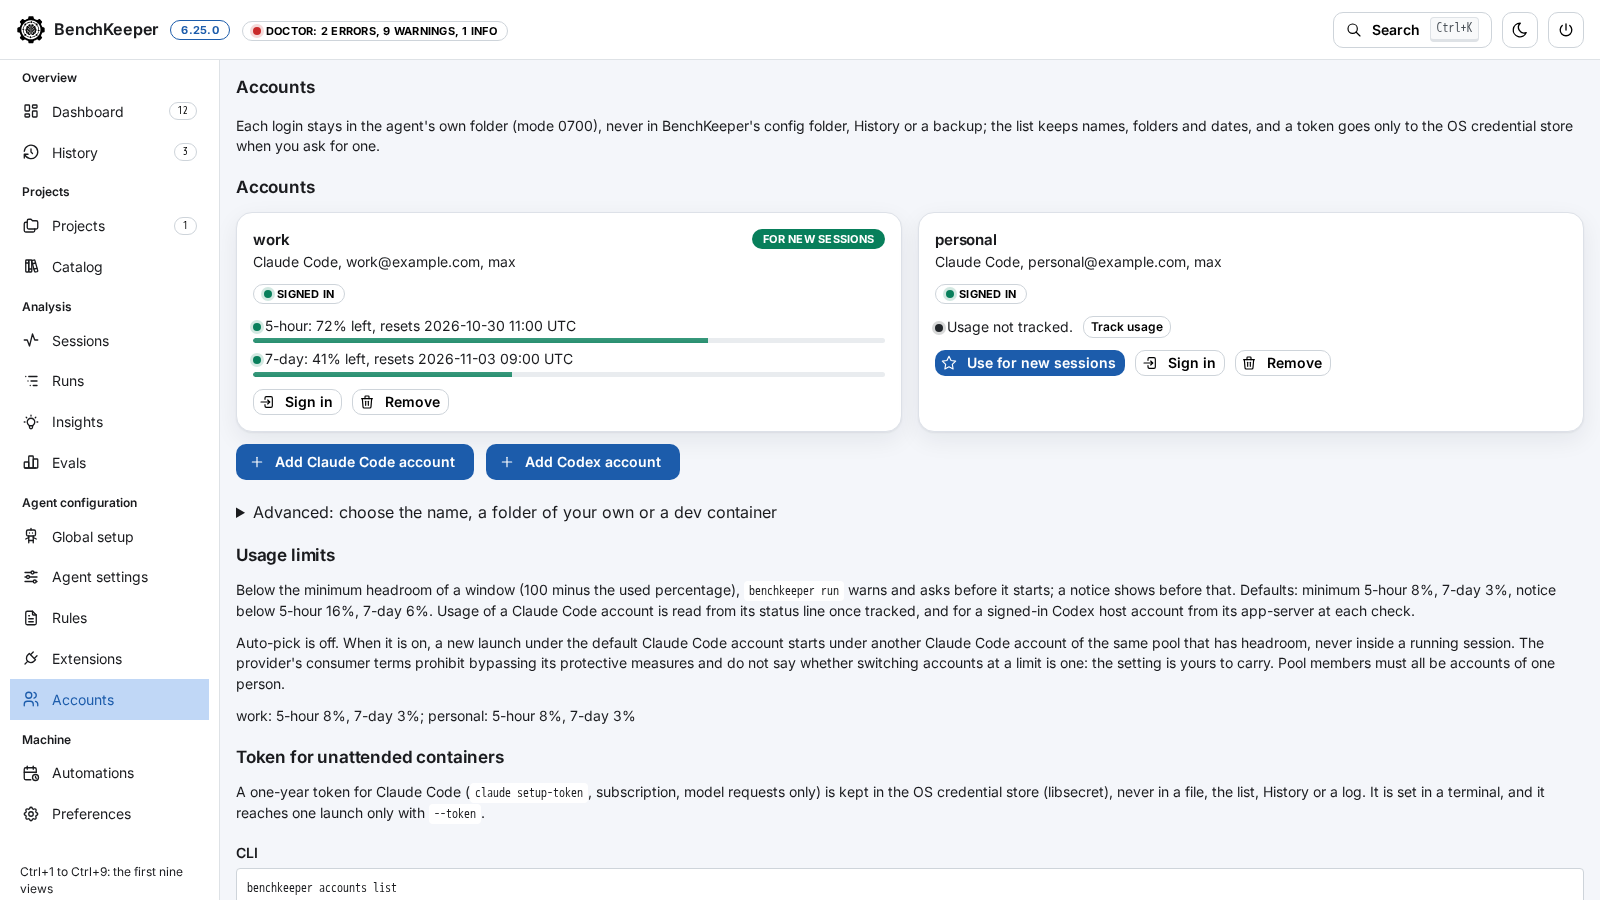
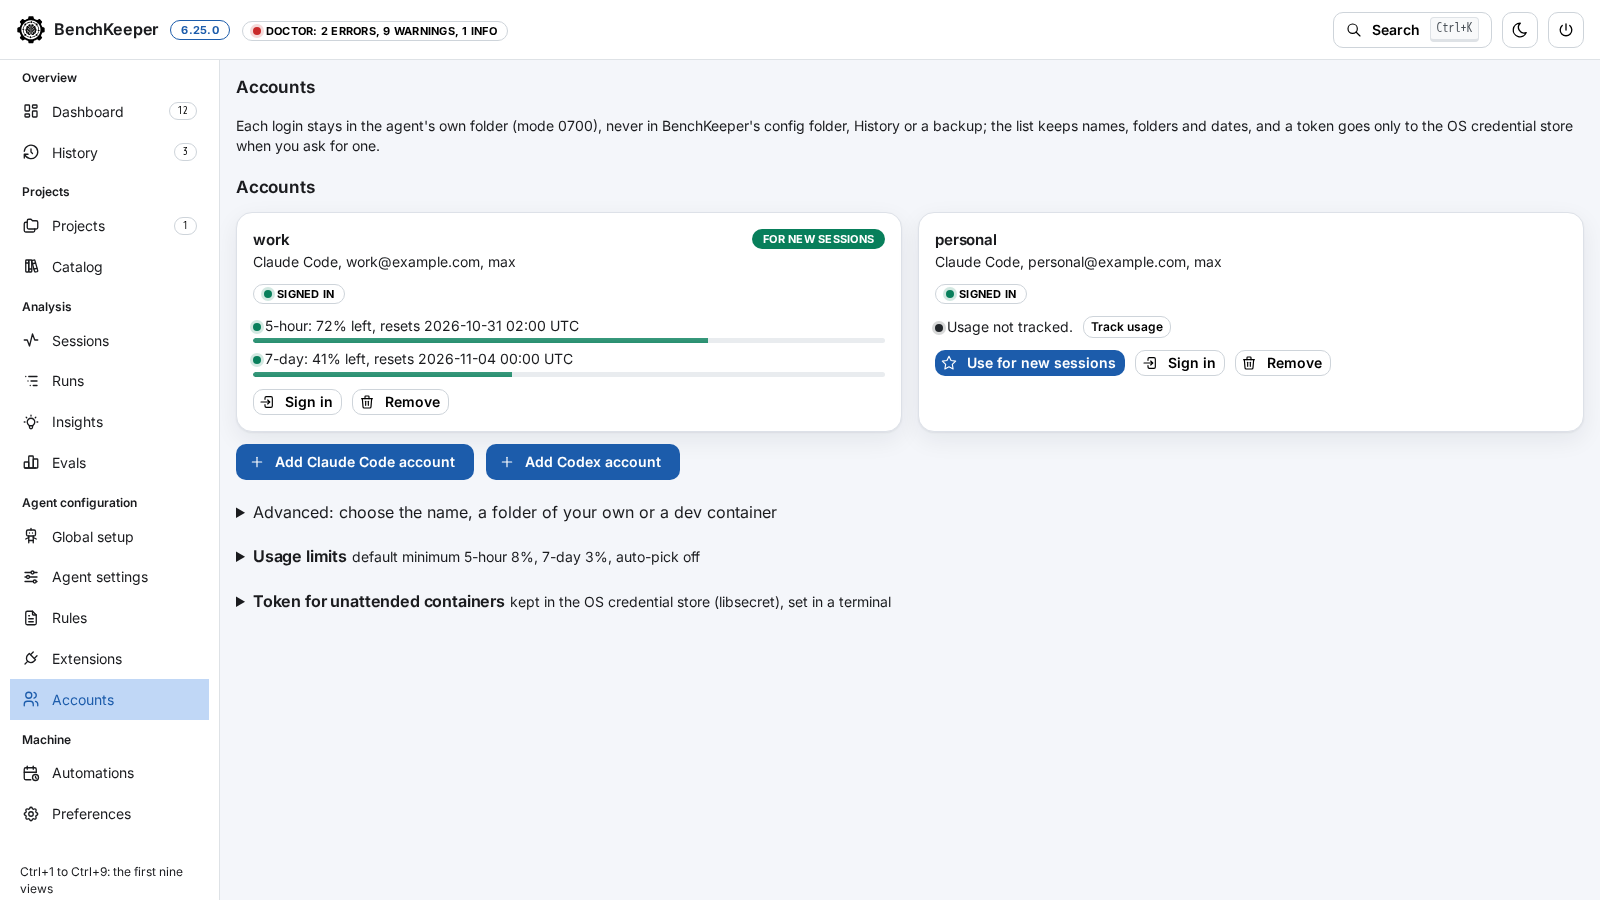
feat(app): fold Usage limits and the token section in Accounts (#843)
* feat(app): fold Usage limits and the token section in Accounts

Usage limits and Token for unattended containers start closed with a
one-line summary each (minimum per window and auto-pick; where the token
is kept). The CLI block moves into the Usage limits panel. The account
cards are unchanged and no text, link or action is removed.

Refs #807

* fix(app): label the Usage limits summary as defaults and assert the opened paragraph

Refs #807

diff --git a/app/ui/accounts.jsx b/app/ui/accounts.jsx
@@ -168,6 +168,16 @@ function AccountCard({ a, c, onUse, onTrack, onSignIn, onRemove }) {
   );
 }
 
+// A long reference section folded to its title and a one-line summary.
+const Fold = ({ title, summary, children }) => (
+  <section aria-label={title}>
+    <details>
+      <summary><Title order={3} size="h4" display="inline">{title}</Title> <Text span size="sm">{summary}</Text></summary>
+      <Stack gap="sm" mt="sm">{children}</Stack>
+    </details>
+  </section>
+);
+
 const ACCOUNT_WHY = { add: 'You asked to add this account in Accounts.', remove: 'You asked to remove this account in Accounts.' };
 
 // Several accounts per agent: one card each with its sign-in and usage, add by sign-in, a check before a launch. The registry holds no credential.
@@ -267,18 +277,18 @@ export function Accounts({ overview, refresh }) {
                 <AddForm onPlan={(p) => idle() && setPending({ plan: p, why: ACCOUNT_WHY.add })} />
               </Stack>
             </details>
-            <Section title="Usage limits">
+            <Fold title="Usage limits" summary={`default minimum ${minimum({ minimum: data.settings.minimum })}, auto-pick ${data.settings.autoPick ? 'on' : 'off'}`}>
               <Text size="sm">Below the minimum headroom of a window (100 minus the used percentage), <Code>benchkeeper run</Code> warns and asks before it starts; a notice shows before that. Defaults: minimum {minimum({ minimum: data.settings.minimum })}, notice below {WINDOWS.map(([k, label]) => `${label} ${data.settings.warn[k]}%`).join(', ')}. Usage of a Claude Code account is read from its status line once tracked, and for a signed-in Codex host account from its app-server at each check.</Text>
               <Text size="sm">Auto-pick is {data.settings.autoPick ? 'on' : 'off'}{data.settings.autoPick ? `; with no pool member above its minimum a launch ${data.settings.whenNone === 'wait' ? 'waits for the earliest reset' : 'stops'}` : ''}. When it is on, a new launch under the default Claude Code account starts under another Claude Code account of the same pool that has headroom, never inside a running session. The provider's consumer terms prohibit bypassing its protective measures and do not say whether switching accounts at a limit is one: the setting is yours to carry. Pool members must all be accounts of one person.</Text>
               {data.accounts.length > 0 && <Text size="sm">{data.accounts.map((a) => `${a.name}: ${minimum(a.limits)}`).join('; ')}</Text>}
-            </Section>
-            <Section title="Token for unattended containers">
+              <Cli>{'benchkeeper accounts list\nbenchkeeper accounts add [name] --agent claude|codex [--container --mount <path>]\nbenchkeeper accounts use|remove <name>\nbenchkeeper accounts status [name] [--project <dir>]\nbenchkeeper accounts track <name> [--off]\nbenchkeeper accounts limits [name] [--five-hour N] [--seven-day N] [--pool name] [--auto-pick on|off]\nbenchkeeper accounts login <name> [--token] [--project <dir>]\nbenchkeeper run --account <name> -- claude|codex'}</Cli>
+            </Fold>
+            <Fold title="Token for unattended containers" summary={data.store === 'none' ? 'no OS credential store on this system' : `kept in the OS credential store (${data.store}), set in a terminal`}>
               <Text size="sm">A one-year token for Claude Code (<Code>claude setup-token</Code>, subscription, model requests only) is kept in the OS credential store ({data.store === 'none' ? 'none is available on this system, so the command refuses' : data.store}), never in a file, the list, History or a log. It is set in a terminal, and it reaches one launch only with <Code>--token</Code>.</Text>
-            </Section>
+            </Fold>
           </Stack>
         )}
       </Loading>
-      <Cli>{'benchkeeper accounts list\nbenchkeeper accounts add [name] --agent claude|codex [--container --mount <path>]\nbenchkeeper accounts use|remove <name>\nbenchkeeper accounts status [name] [--project <dir>]\nbenchkeeper accounts track <name> [--off]\nbenchkeeper accounts limits [name] [--five-hour N] [--seven-day N] [--pool name] [--auto-pick on|off]\nbenchkeeper accounts login <name> [--token] [--project <dir>]\nbenchkeeper run --account <name> -- claude|codex'}</Cli>
     </Stack>
   );
 }
